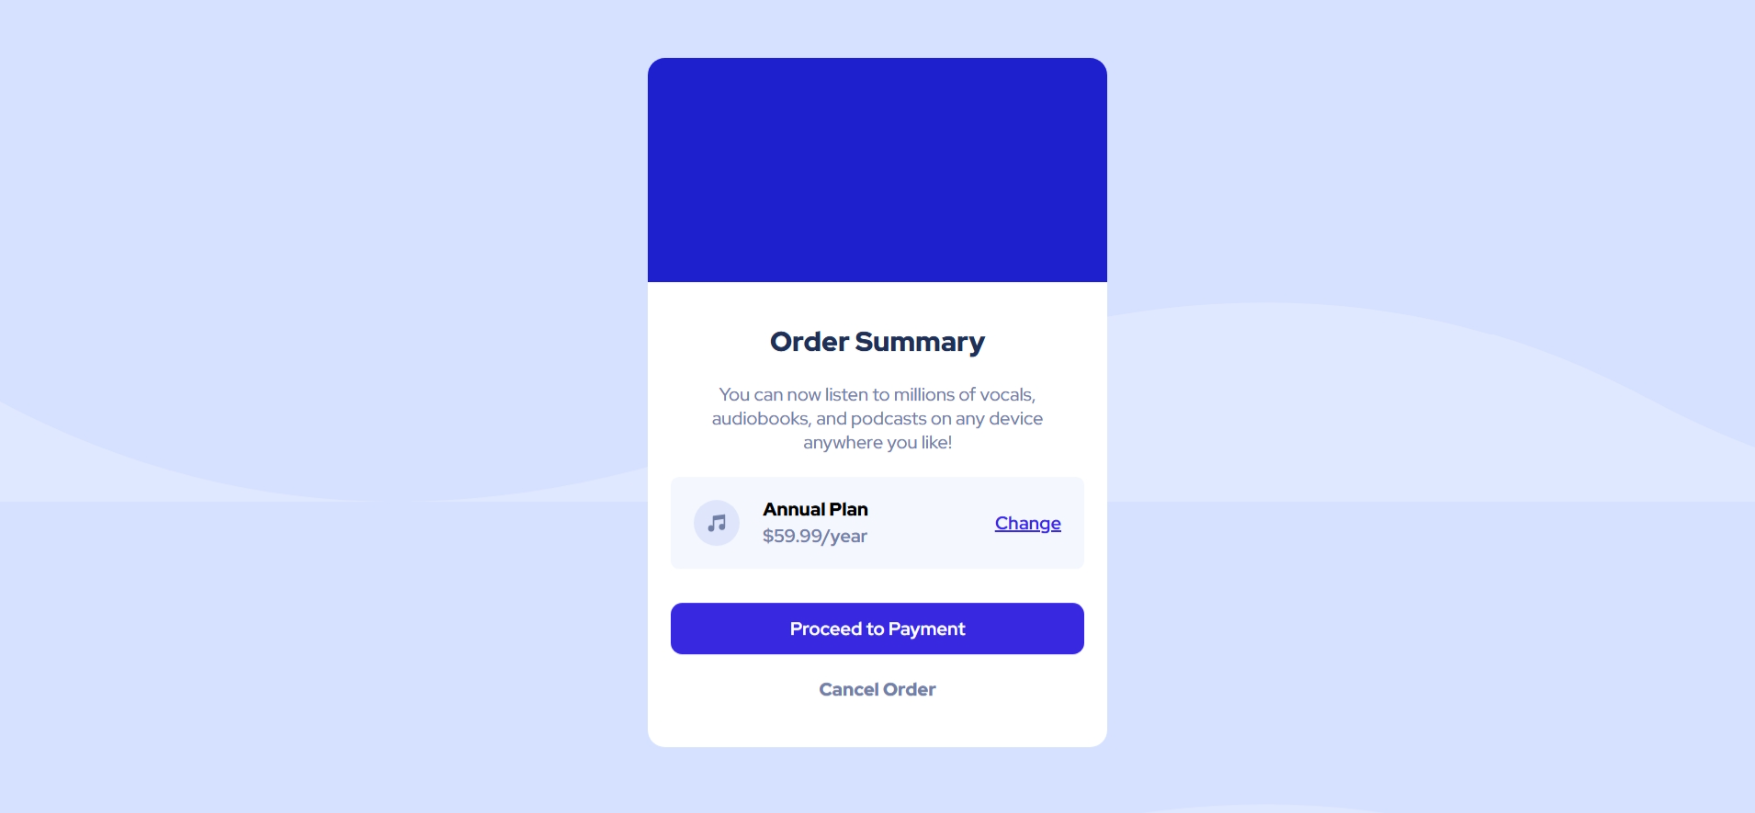
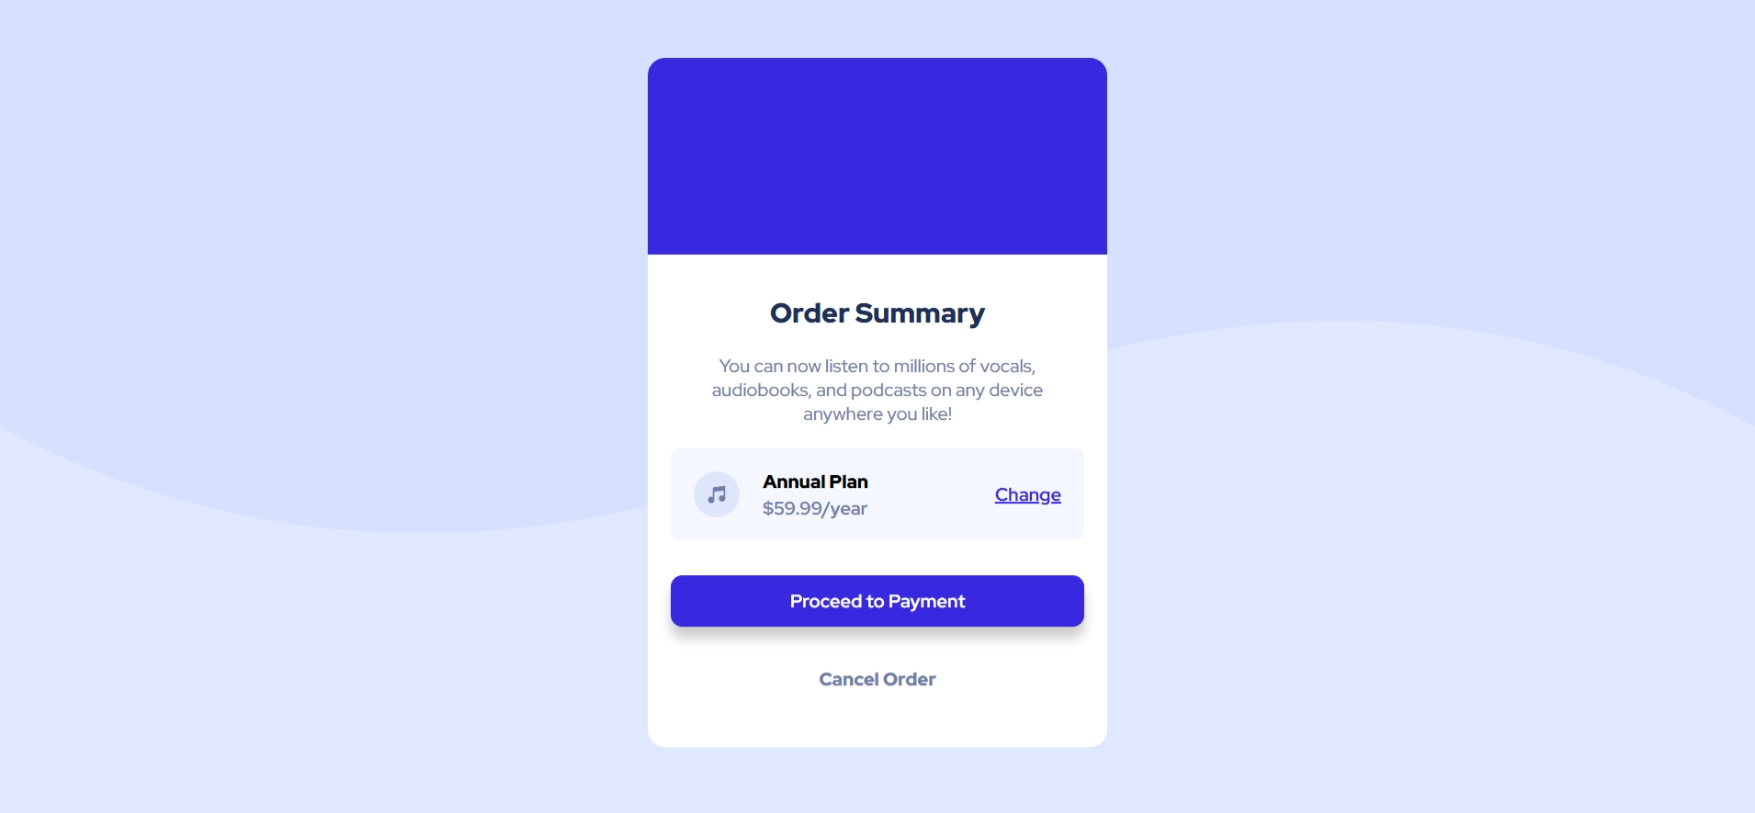
version 2

diff --git a/style.css b/style.css
@@ -7,9 +7,10 @@
 }
 
 body {
-    width: 100%;
     height: 100%;
     background-image: url("images/pattern-background-desktop.svg");
+    background-repeat: no-repeat;
+    background-size: 100%;
     background-color: hsl(225, 100%, 94%);
     font-family: "Red Hat Display", sans-serif;
 }
@@ -25,8 +26,12 @@ body {
     flex-direction: column;
 }
 
+.img-container {
+    height: 250px;
+    background-color: hsl(245, 75%, 52%);
+}
+
 .top-img {
-    width: 100%;
 }
 
 .bottom-half {
@@ -112,9 +117,10 @@ body {
     border: none;
     height: 45px;
     border-radius: 10px;
-    margin-bottom: 20px;
+    margin-bottom: 35px;
     cursor: pointer;
     transition: background-color 0.15s;
+    box-shadow: 0px 10px 10px rgba(0, 0, 0, 0.2);
 }
 
 .proceed-button:hover {

diff --git a/index.html b/index.html
@@ -3,18 +3,17 @@
 <head>
   <meta charset="UTF-8">
   <meta name="viewport" content="width=device-width, initial-scale=1.0"> <!-- displays site properly based on user's device -->
-
-  <link rel="icon" type="image/png" sizes="32x32" href="./images/favicon-32x32.png">
   <link rel="stylesheet" href="style.css">
-
   <title>Order Summary</title>
-
 </head>
+
 <body>
 
   <div class="container">
 
-    <img class="top-img" src="images/top-background-img.png" alt="">
+    <div class="img-container">
+      <!-- <img class="top-img" src="images/top-background-img.png" alt=""> -->
+    </div>
 
     <div class="bottom-half">
 

diff --git a/README.md b/README.md
@@ -6,8 +6,6 @@
 - [My process](#my-process)
   - [Built with](#built-with)
 
-**Note: Delete this note and update the table of contents based on what sections you keep.**
-
 ## Overview
 
 ### Screenshot
@@ -15,9 +13,8 @@
 ![](./screenshot.png)
 
 
-### Links
+### Live Site
 
-- [Solution URL](https://www.frontendmentor.io/solutions/order-summary-component-UTmLHpiVjR)
 - [Live Site URL](https://louai111.github.io/Order-Summary/)
 
 ## My process
